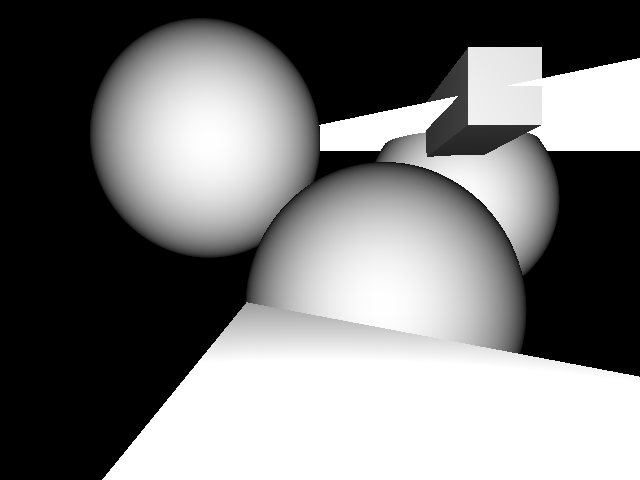
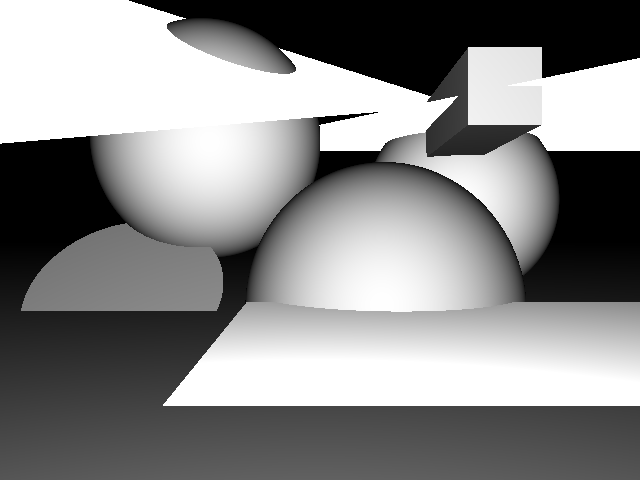
Fixed some triangle issues.

diff --git a/rt/solids/triangle.cpp b/rt/solids/triangle.cpp
@@ -42,7 +42,6 @@ namespace rt
 		{
 			Point p = intersectionObject.hitPoint();
 
-
 			Vector v3v2 = v3 - v2;
 			Vector pv2 = p - v2;
 
@@ -51,9 +50,8 @@ namespace rt
 			if (dot(normalVector, v3v2pNormal) < 0)
 				return Intersection();
 
-			Vector v1v3 = v1 - v3;
 			Vector pv3 = p - v3;
-			Vector v1v3pNormal = cross(v1v3, pv3);
+			Vector v1v3pNormal = cross(pv3, v1v3);
 			float v = (v1v3pNormal.length() / 2) / fullArea;
 			if (dot(normalVector, v1v3pNormal) < 0)
 				return Intersection();

diff --git a/rt/solids/infiniteplane.cpp b/rt/solids/infiniteplane.cpp
@@ -20,7 +20,7 @@ namespace rt
 	Intersection InfinitePlane::intersect(const Ray & ray, float previousBestDistance) const
 	{
 		float denom = dot(normal, ray.d);
-		if (denom > 1e-6) 
+		if (abs(denom) > 1e-6) 
 		{
 			float currentDistance = dot(origin - ray.o, normal) / denom;
 			if (currentDistance < previousBestDistance && currentDistance > 0)

diff --git a/rt/integrators/casting.cpp b/rt/integrators/casting.cpp
@@ -11,7 +11,7 @@ namespace rt
 		Intersection intersection = this->world->scene->intersect(ray, MAX_DIST);
 		float grayColor = 0;
 		
-		if(intersection)
+		if (intersection)
 			grayColor = abs(dot(intersection.normal(), ray.d));
 
 		return RGBColor(grayColor, grayColor, grayColor);
